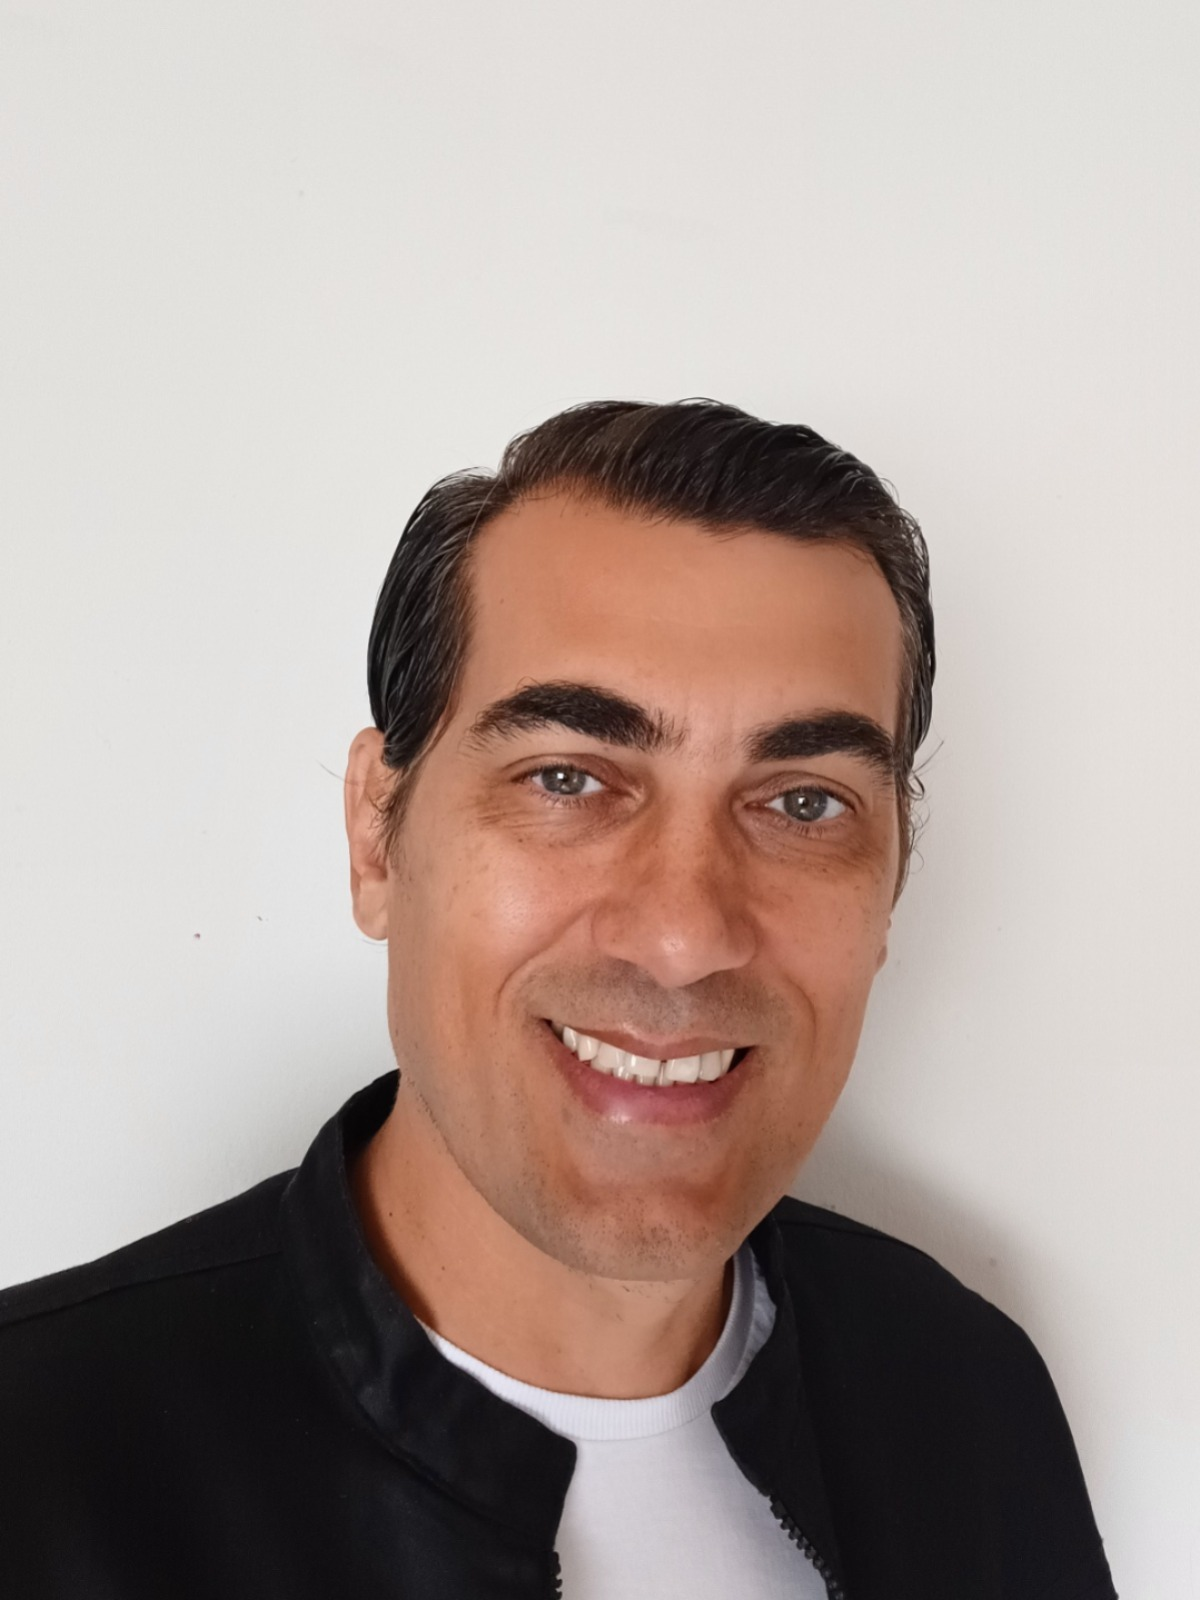
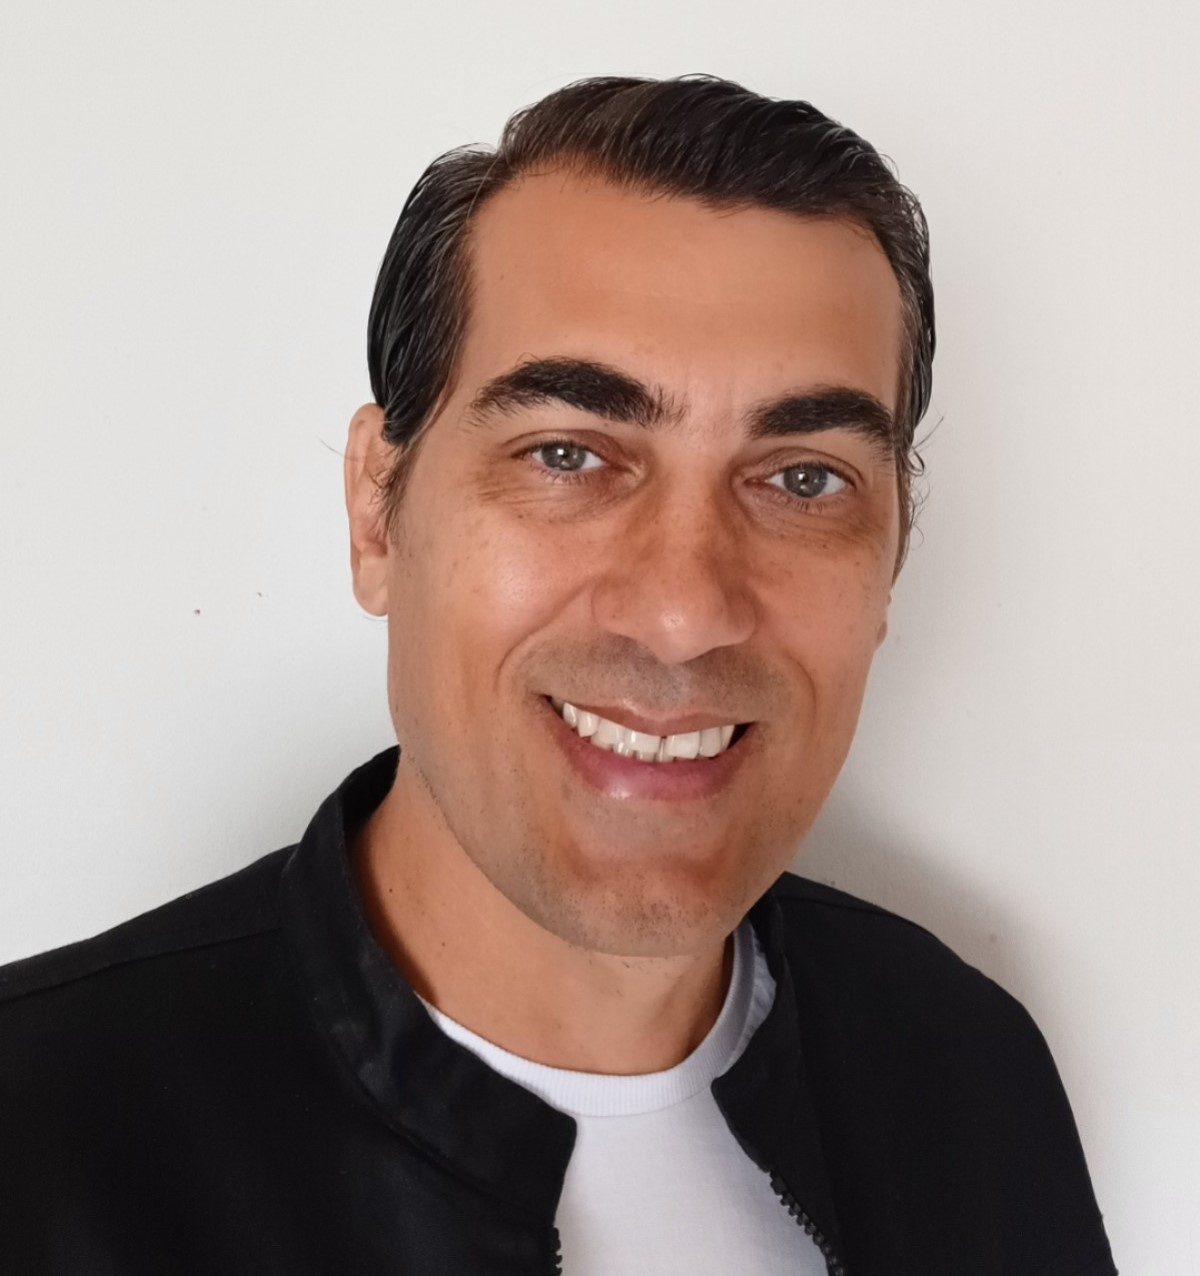
arrumei a imagem

Changed region(s): [[0.0, 0.0611, 0.8942, 0.9781], [0.8942, 0.8864, 0.925, 0.9781]]

diff --git a/index.html b/index.html
@@ -101,7 +101,7 @@
         <p class="titulo"> Quem sou eu? </p>
     </div>
     <div class="centralizar_div">
-        <img id="rosto" src="/imagens/rosto_teste.jpeg">
+        <img id="rosto" src="/imagens/rosto.jpeg">
     </div>
     <div class="centralizar_div">
         <div id="arruma_nome">
